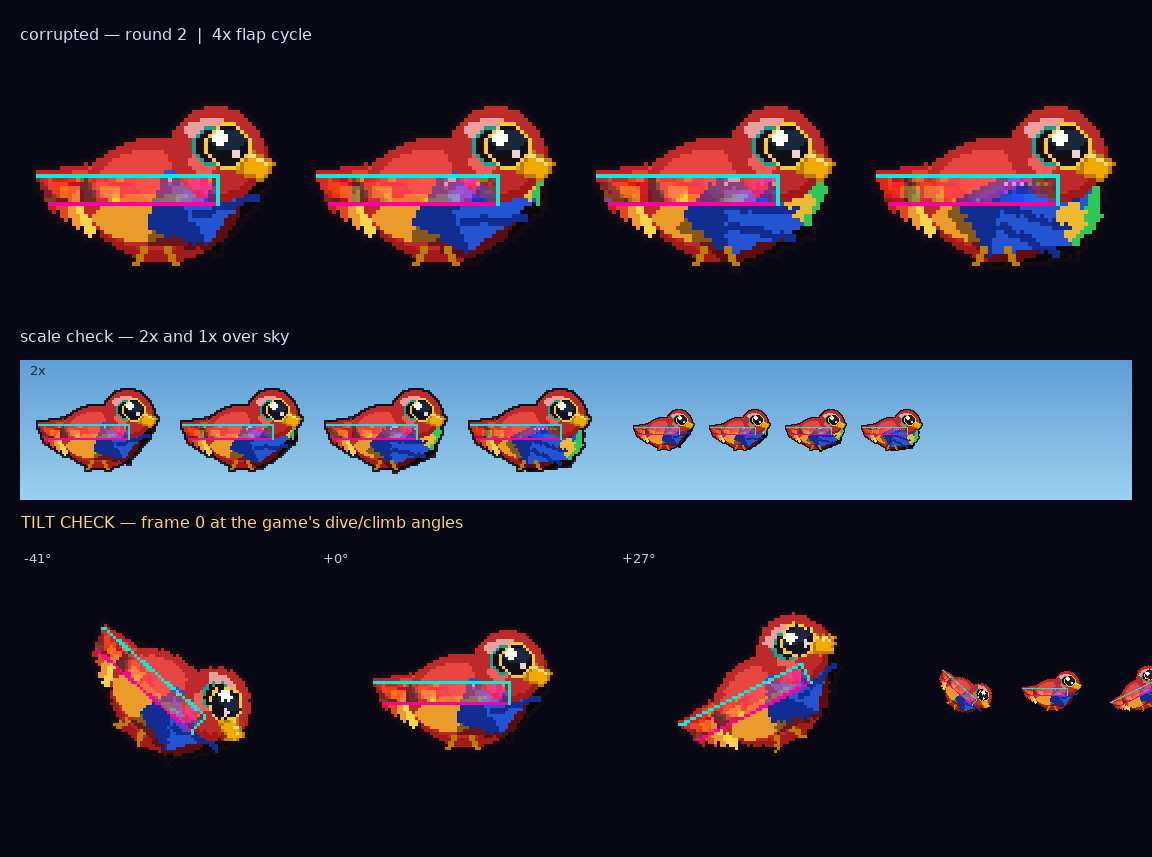
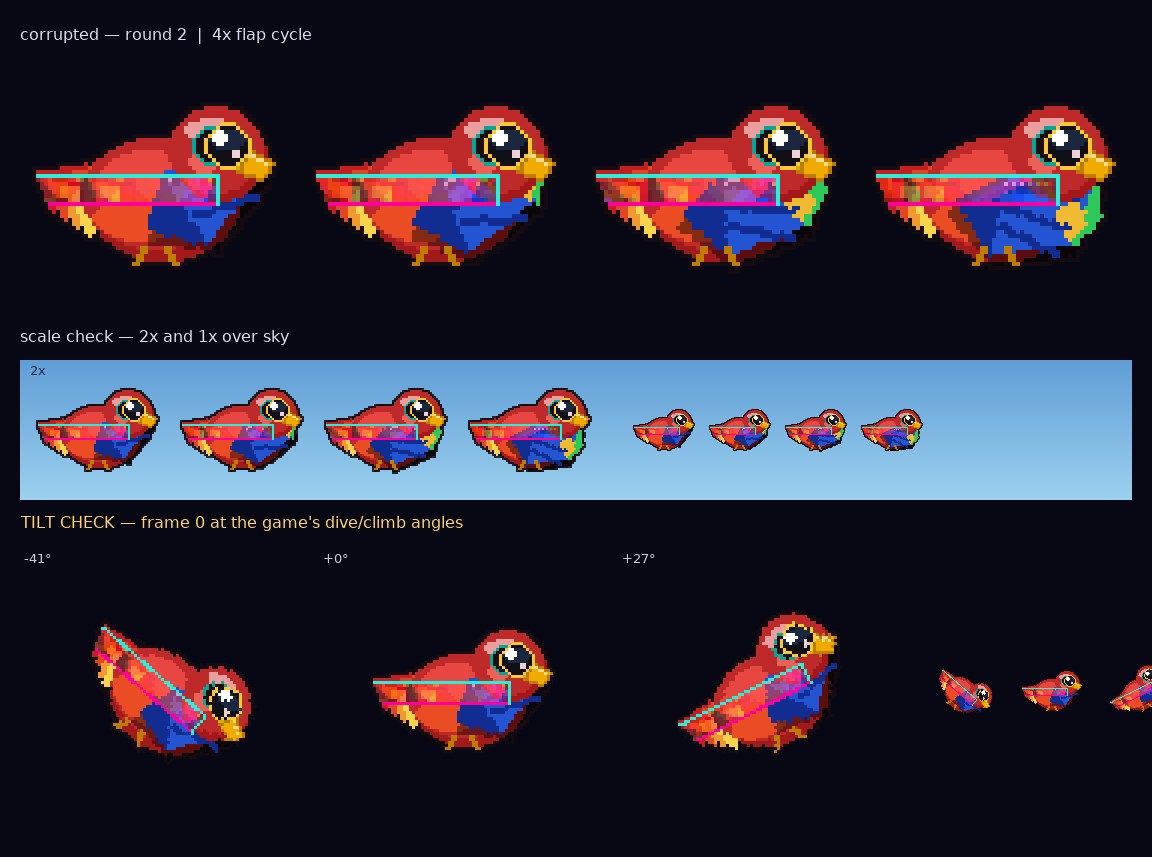
corrupted hurt-parrot V2 round 2: one band, displaced eye, beak protected, rotation strip
Claude-Session: https://claude.ai/code/session_01SYxW5bMXxMEcZRx1arfvCN

diff --git a/docs/hurt-parrot-v2/corrupted/design.py b/docs/hurt-parrot-v2/corrupted/design.py
@@ -37,7 +37,7 @@ _FRAME_MAP = {10: 0, -5: 1, -20: 2, -35: 3}
 # shift every frame would read as a deliberate static pattern instead.
 _SHIFTS = (10, 8, 12, 6)
 
-CYAN = (0, 240, 220)
+CYAN = (38, 240, 220)
 GHOST_CYAN = (0, 220, 200)
 MAGENTA = (255, 0, 160)
 
@@ -203,7 +203,7 @@ def _build_hurt_frame(wing_angle_deg):
     BODY = (190, 42, 42)
     BODY_SH = (162, 26, 26)
     CHEST = (232, 70, 64)
-    BELLY = (235, 155, 42)
+    BELLY = (234, 76, 36)
     BEAK = (240, 170, 0)
     BEAK_D = (190, 125, 0)
 
